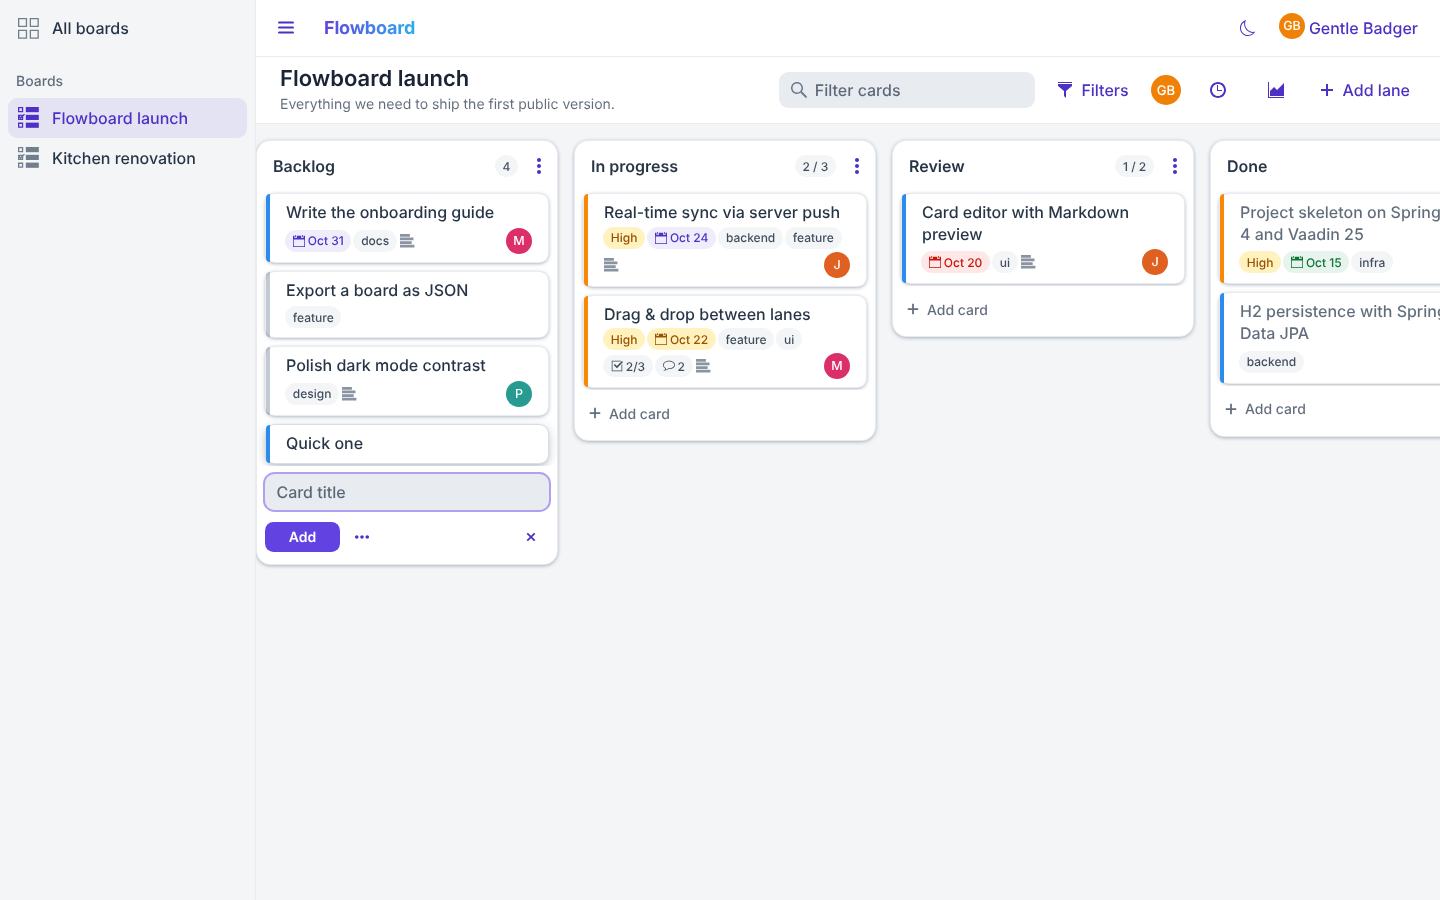
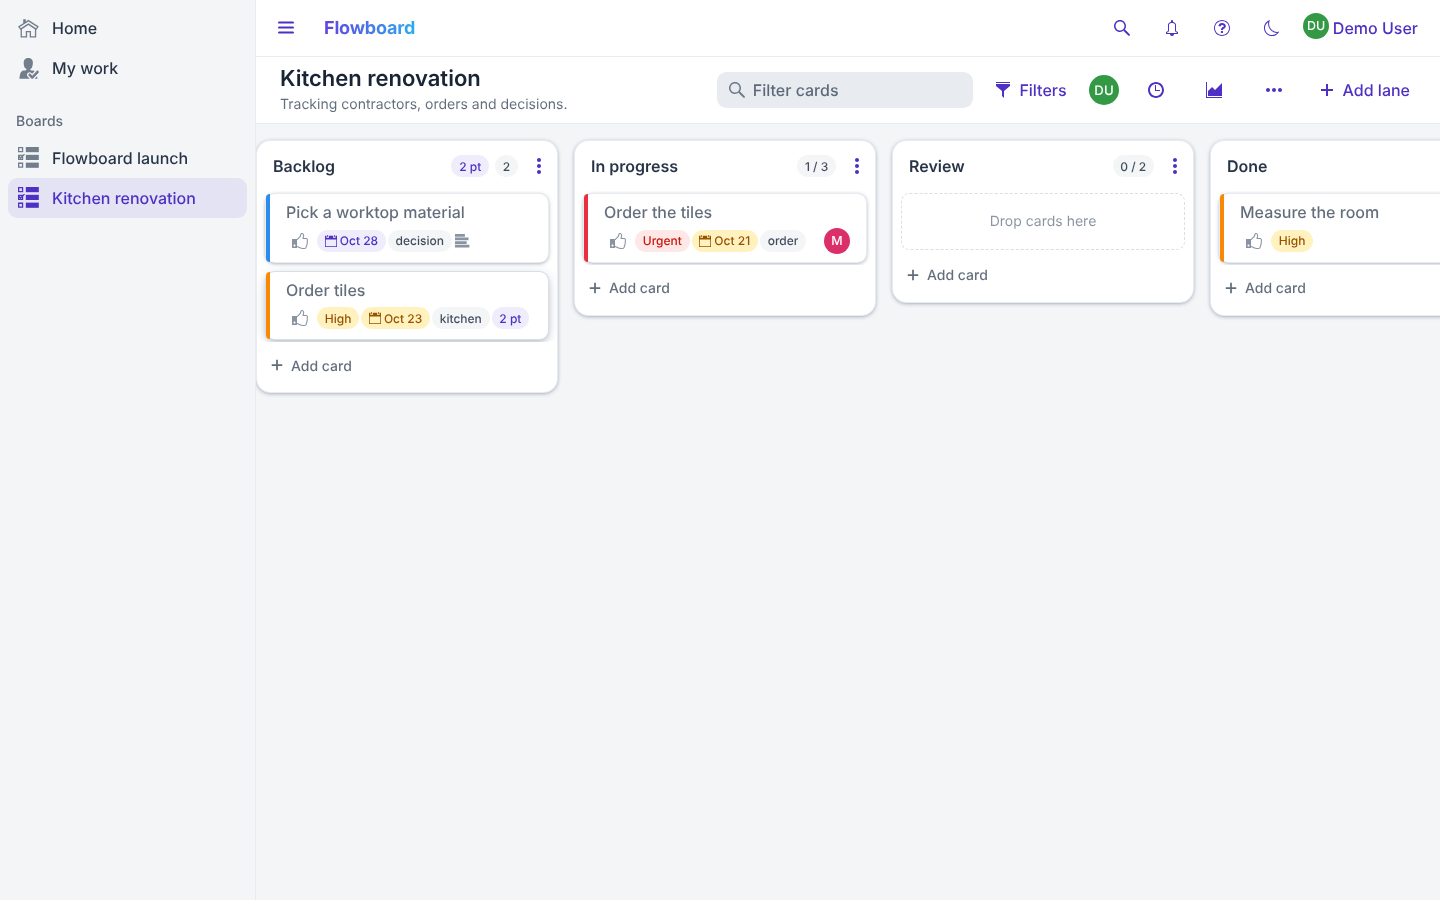
Add screenshots of members, move dialog and calendar feed
Claude-Session: https://claude.ai/code/session_01MrvthHf1AzktnPcG6NF27K

diff --git a/README.md b/README.md
@@ -21,6 +21,8 @@ Java on top of Vaadin Flow's server push.
 | ![Undo](docs/undo.png) | ![Webhooks](docs/webhooks.png) | ![Share](docs/share.png) |
 | Card templates | Saved views | Time tracking |
 | ![Templates](docs/templates.png) | ![Views](docs/views.png) | ![Time](docs/time.png) |
+| Members-only boards | Move or copy across boards | Public link with calendar feed |
+| ![Members](docs/members.png) | ![Move](docs/move.png) | ![Share](docs/share.png) |
 
 ## Features
 
